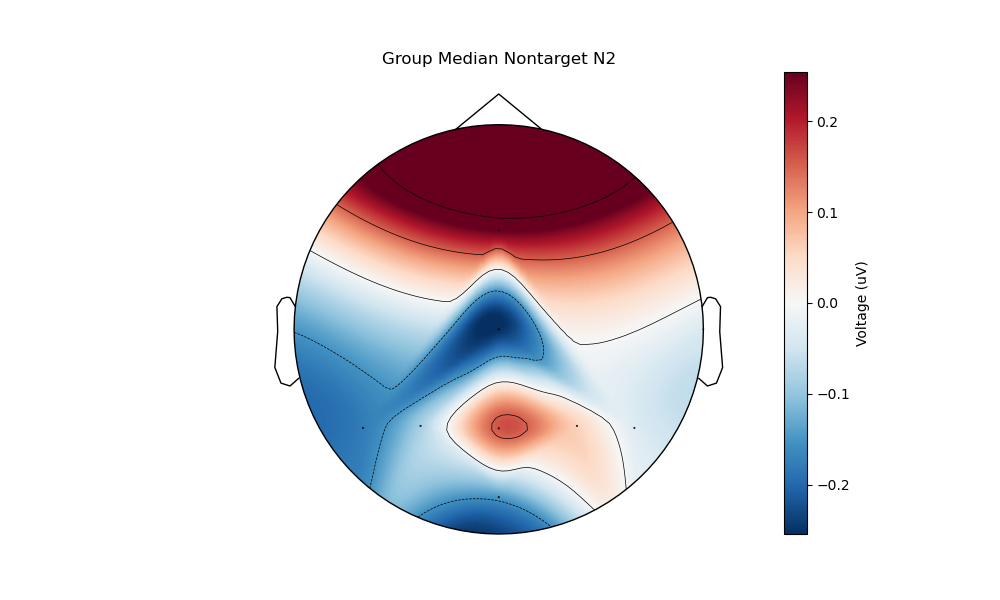
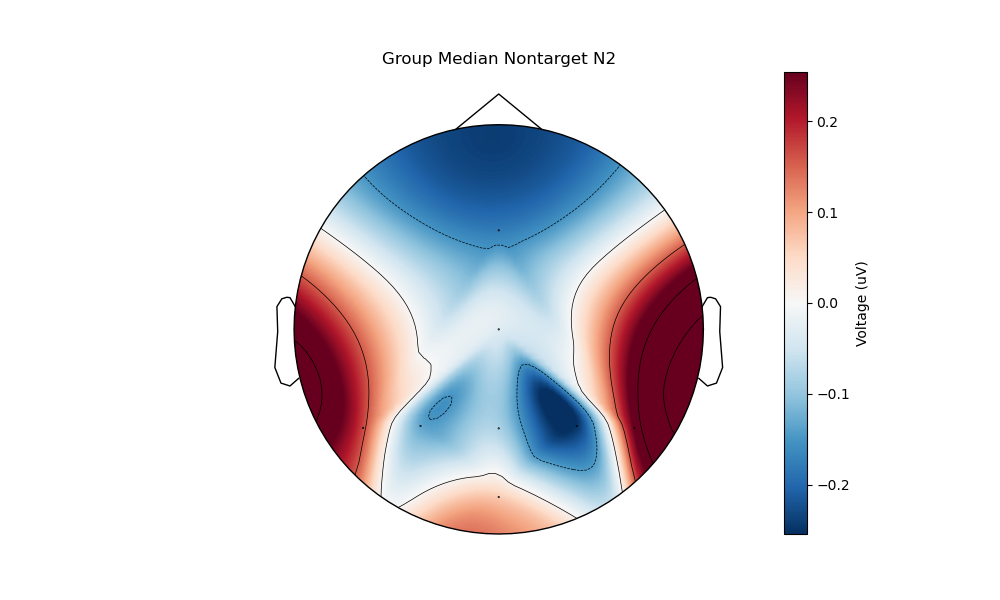
literally whatever I have

Changed region(s): [[0.279, 0.21, 0.713, 0.9]]

diff --git a/plot_p300_data.py b/plot_p300_data.py
@@ -571,23 +571,25 @@ def plot_spatial_map(eeg_epochs, is_target_event, erp_times, subjects=np.arange(
     nontarget_p3b = group_median_erp_nontarget[p3b_start_index:p3b_end_index,:]
    
     # make channel array to edit order once
-    channel_array = ['P7', 'P8','Oz','P3','Cz', 'Pz', 'P4','Fz']
+    #channel_array = ['P7', 'P8','Oz','P3','Cz', 'Pz', 'P4','Fz']
+    #channel_array = ['Oz','P7', 'P8','P3','Cz', 'Pz', 'P4','Fz']
+    channel_array = ['Fz','Cz','P3','Pz','P4','P7','Oz','P8']
     
     # plot and save topomaps for N2 and P3b time ranges
-    plt.figure(figsize=(10, 6))
-    plot_topo(channel_array, channel_data=target_n2.T, title='Group Median Target N2', montage_name='standard_1020')
-    plt.savefig('target_n2_topomap.png') 
+    # plt.figure(figsize=(10, 6))
+    # plot_topo(channel_array, channel_data=target_n2.T, title='Group Median Target N2', montage_name='standard_1020')
+    # plt.savefig('target_n2_topomap.png') 
     
     plt.figure(figsize=(10, 6))
     plot_topo(channel_array, channel_data=nontarget_n2.T, title='Group Median Nontarget N2')
     plt.savefig('nontarget_n2_topomap.png') 
     
-    plt.figure(figsize=(10, 6))
-    plot_topo(channel_array, channel_data=target_p3b.T, title='Group Median Target P3b')
-    plt.savefig('target_p3b_topomap.png') 
+    # plt.figure(figsize=(10, 6))
+    # plot_topo(channel_array, channel_data=target_p3b.T, title='Group Median Target P3b')
+    # plt.savefig('target_p3b_topomap.png') 
     
-    plt.figure(figsize=(10, 6))
-    plot_topo(channel_array, channel_data=nontarget_p3b.T, title='Group Median Nontarget P3b')
-    plt.savefig('nontarget_p3b_topomap.png') 
+    # plt.figure(figsize=(10, 6))
+    # plot_topo(channel_array, channel_data=nontarget_p3b.T, title='Group Median Nontarget P3b')
+    # plt.savefig('nontarget_p3b_topomap.png') 
     
     return target_n2, target_p3b, nontarget_n2, nontarget_p3b
